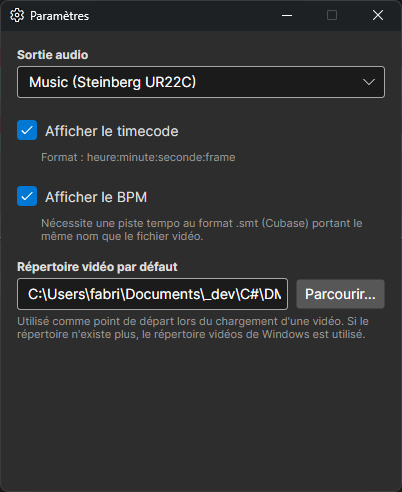
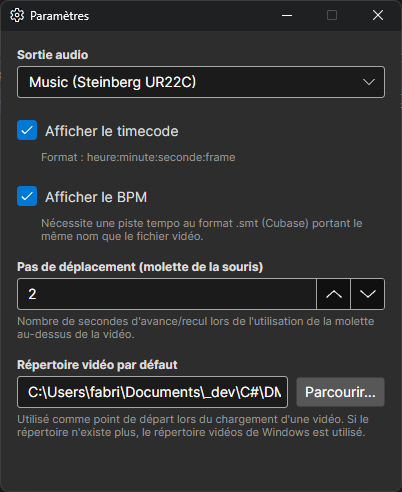
feat: allow to move in video using mouse wheel

Changed region(s): [[0.0299, 0.7317, 0.9552, 0.8841], [0.0299, 0.5183, 0.9552, 0.7012]]

diff --git a/MainWindow.axaml.cs b/MainWindow.axaml.cs
@@ -48,6 +48,7 @@ namespace DMVideoPlayer
         private bool _isUpdatingAudioOutput = false;
         private string? _currentVideoFilePath;
         private bool _isUserInteractingWithSlider = false;
+        private int _seekStepSeconds = 5;
         private string? _selectedAudioDeviceId = null;
         private int? _selectedAudioTrackId = null;
         private Button? _audioTrackButton;
@@ -337,6 +338,11 @@ namespace DMVideoPlayer
                 _positionSlider.AddHandler(PointerCaptureLostEvent, PositionSlider_PointerCaptureLost, RoutingStrategies.Tunnel);
             }
 
+            if (_videoContainer != null)
+            {
+                _videoContainer.AddHandler(PointerWheelChangedEvent, VideoContainer_PointerWheelChanged, RoutingStrategies.Tunnel);
+            }
+
             if (_audioTrackComboBox != null)
             {
                 _audioTrackComboBox.SelectionChanged += AudioTrackComboBox_SelectionChanged;
@@ -424,6 +430,9 @@ namespace DMVideoPlayer
 
             // Appliquer le répertoire vidéo par défaut
             _defaultVideoDirectory = settings.DefaultVideoDirectory;
+
+            // Appliquer le pas de déplacement de la molette
+            _seekStepSeconds = settings.SeekStepSeconds > 0 ? settings.SeekStepSeconds : 5;
 
             // Appliquer l'état de la case à cocher BPM
             if (_bpmCheckBox != null)
@@ -1334,6 +1343,17 @@ namespace DMVideoPlayer
             SaveSettings();
         }
 
+        public int GetSeekStepSeconds()
+        {
+            return _seekStepSeconds;
+        }
+
+        public void SetSeekStepSeconds(int seconds)
+        {
+            _seekStepSeconds = seconds < 1 ? 1 : seconds;
+            SaveSettings();
+        }
+
         private string GetEffectiveVideoStartDirectory()
         {
             if (!string.IsNullOrWhiteSpace(_defaultVideoDirectory) && Directory.Exists(_defaultVideoDirectory))
@@ -1610,6 +1630,43 @@ namespace DMVideoPlayer
                 _isUserInteractingWithSlider = false;
                 Debug.WriteLine("PositionSlider: Timer réactivé");
             }, DispatcherPriority.Background);
+        }
+
+        private void VideoContainer_PointerWheelChanged(object? sender, PointerWheelEventArgs e)
+        {
+            // Treat wheel usage as user activity to prevent controls from auto-hiding
+            ShowOverlays();
+            _hideControlsTimer?.Stop();
+            if (_currentMedia != null && _mediaPlayer != null && _mediaPlayer.IsPlaying)
+            {
+                _hideControlsTimer?.Start();
+            }
+
+            if (_mediaPlayer == null || _positionSlider == null)
+                return;
+
+            e.Handled = true;
+
+            long length = _mediaPlayer.Length;
+            if (length <= 0)
+                return;
+
+            long seekStepMs = _seekStepSeconds * 1000L;
+            long currentTime = _mediaPlayer.Time;
+            long delta = e.Delta.Y > 0 ? seekStepMs : -seekStepMs;
+            long newTime = Math.Clamp(currentTime + delta, 0, length);
+
+            _mediaPlayer.Time = newTime;
+            _positionSlider.Value = (double)newTime / length * 100;
+
+            Debug.WriteLine($"PositionSlider: Molette - seek à {newTime}ms");
+
+            UpdateTimecodeLabelFromSlider();
+
+            Task.Delay(50).ContinueWith(_ =>
+            {
+                Dispatcher.UIThread.Post(() => SyncBeatTimer());
+            });
         }
 
         private void UpdateTimer_Tick(object? sender, EventArgs e)
@@ -1946,7 +2003,8 @@ namespace DMVideoPlayer
                     IsBalanceLocked = _isBalanceLocked,
                     ShowTimecode = _timecodeCheckBox != null && _timecodeCheckBox.IsChecked == true, // Sauvegarde de l'état timecode
                     ShowBpm = _bpmCheckBox != null && _bpmCheckBox.IsChecked == true, // Sauvegarde de l'état BPM
-                    DefaultVideoDirectory = _defaultVideoDirectory
+                    DefaultVideoDirectory = _defaultVideoDirectory,
+                    SeekStepSeconds = _seekStepSeconds
                 };
 
                 var balanceSlider = this.FindControl<Slider>("BalanceSlider");
@@ -2061,6 +2119,7 @@ namespace DMVideoPlayer
         public bool ShowTimecode { get; set; } = false; // Ajout pour la case à cocher timecode
         public bool ShowBpm { get; set; } = false; // Ajout pour la case à cocher BPM
         public string? DefaultVideoDirectory { get; set; } // Répertoire par défaut pour le chargement des vidéos
+        public int SeekStepSeconds { get; set; } = 5; // Pas de déplacement (en secondes) pour la molette de la souris
     }
 
     public partial class MainWindow

diff --git a/SettingsWindow.axaml.cs b/SettingsWindow.axaml.cs
@@ -77,6 +77,20 @@ namespace DMVideoPlayer
                 defaultVideoDirectoryTextBox.Text = _owner.GetDefaultVideoDirectory();
             }
 
+            var seekStepNumericUpDown = this.FindControl<NumericUpDown>("SeekStepNumericUpDown");
+            if (seekStepNumericUpDown != null)
+            {
+                seekStepNumericUpDown.Value = _owner.GetSeekStepSeconds();
+
+                seekStepNumericUpDown.ValueChanged += (s, e) =>
+                {
+                    if (seekStepNumericUpDown.Value.HasValue)
+                    {
+                        _owner.SetSeekStepSeconds((int)seekStepNumericUpDown.Value.Value);
+                    }
+                };
+            }
+
             var browseButton = this.FindControl<Button>("BrowseDefaultVideoDirectoryButton");
             if (browseButton != null)
             {

diff --git a/CHANGELOG.md b/CHANGELOG.md
@@ -11,6 +11,8 @@ All notable changes to DM Video Player will be documented in this file.
 - Move timecode display checkbox to settings windows
 - Add BPM display checkbox to settings windows
 - Add default vidéo folder to settings windows
+- Allow to move in video based on mouse wheel 
+- Add mouse wheel move step in settings
 
 ### 🐛 Bug Fixes
 